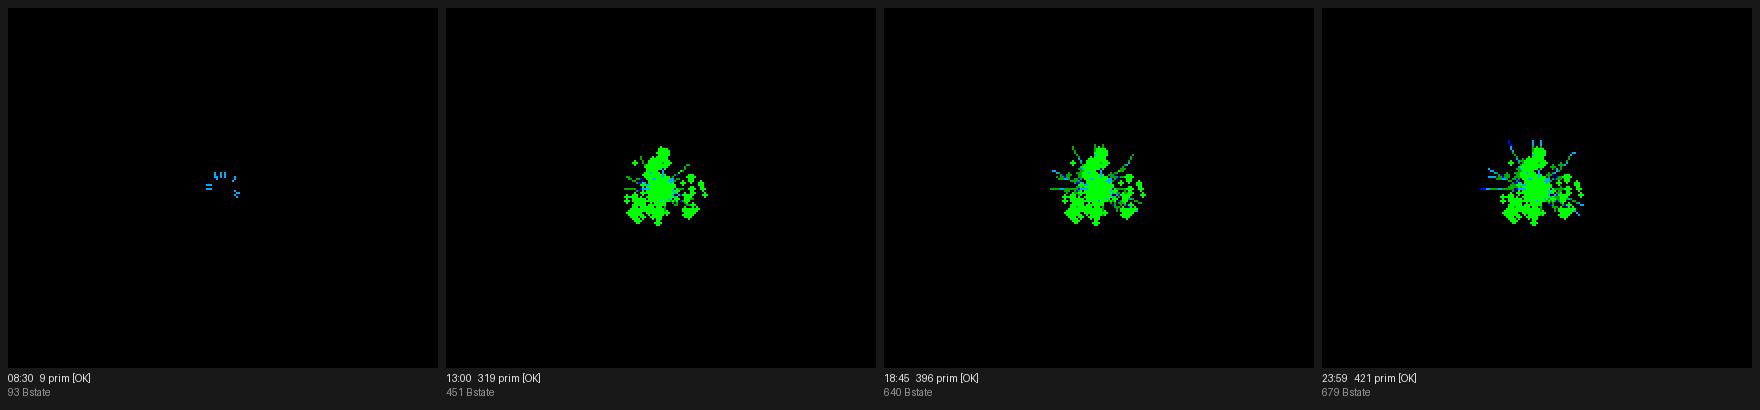
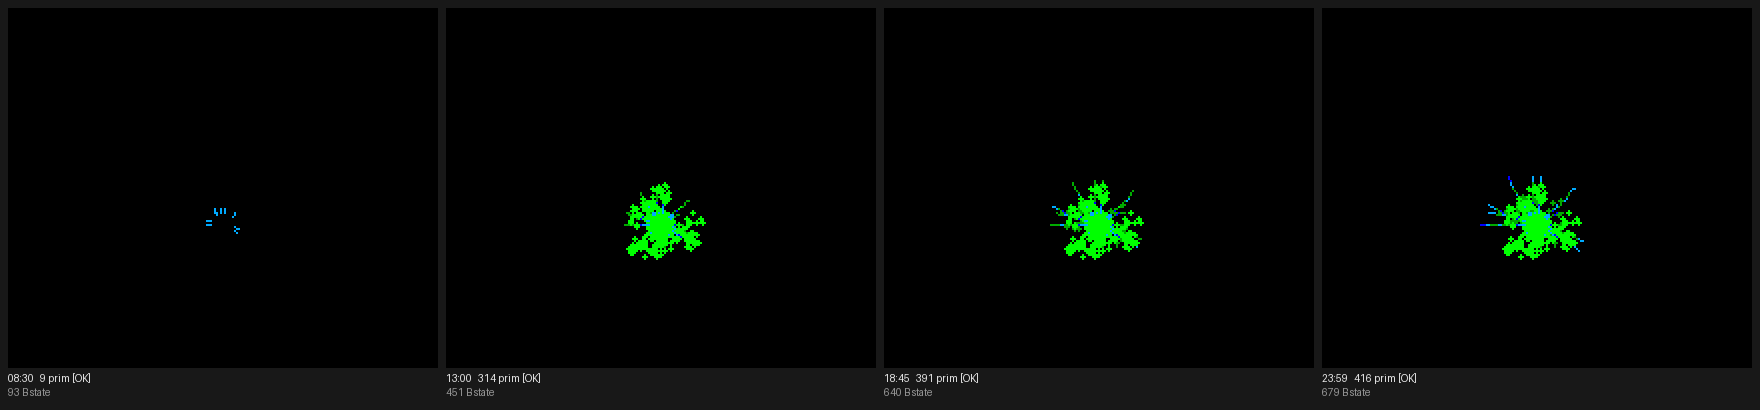
biobloom: lower the dish centre to 2/5 from the bottom
Move the generative-art centrepoint down from screen-middle (CY=90) to 2/5 of
the height up from the bottom (CY=108), in both the sketch (parity reference)
and the BioBloom component, and refresh the sandbox renders.

The lower centre shifts every bloom's y-anchor, which is fine, but it surfaced a
long-standing one-primitive render difference between the sketch and the device:
one branch filament's wander rounds a single growth step differently on-device
than in the float-free sketch, nudging one bloom's stipple (th11: 177 vs 183 by
end of day). The simulation STATE remains bit-identical (4 blooms, colony reach
60, 52 bands, 22 filaments); only the render count differs by 1 (1324 device vs
1323 sketch), far under the ~25k watchdog. The parity test now asserts the exact
state plus the device's deterministic render count, with that difference
documented.

Changed region(s): [[0.5938, 0.3512, 0.6562, 0.6439], [0.8438, 0.3512, 0.9062, 0.6439], [0.3438, 0.3512, 0.4062, 0.6439]]

diff --git a/sketches/algos/biobloom.py b/sketches/algos/biobloom.py
@@ -36,7 +36,7 @@ repaint per minute, no within-minute animation. Daily reset (fresh dish).
 from device import (idiv, imod, isin, hash16, zoneIndex, ZONE_COLORS,
                     COLOR_BLACK, COLOR_DK_GRAY, COLOR_LT_GRAY)
 
-CX, CY = 107, 90
+CX, CY = 107, 108     # centre at 2/5 of the screen height up from the bottom
 R0, RMAX = 7, 86
 UNIT = 64
 KACT = 6            # movement -> growth (smaller => threads grow faster)
